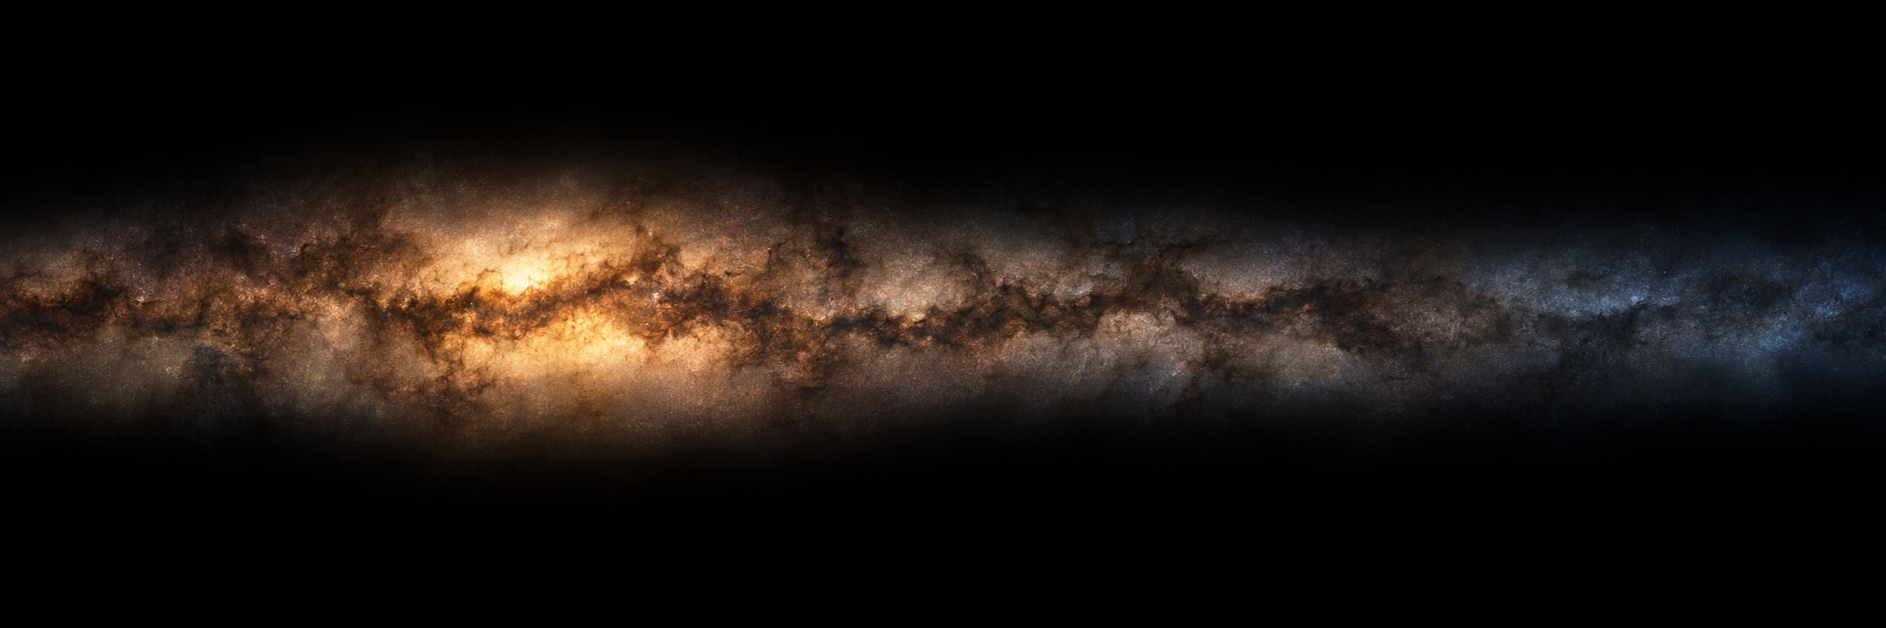
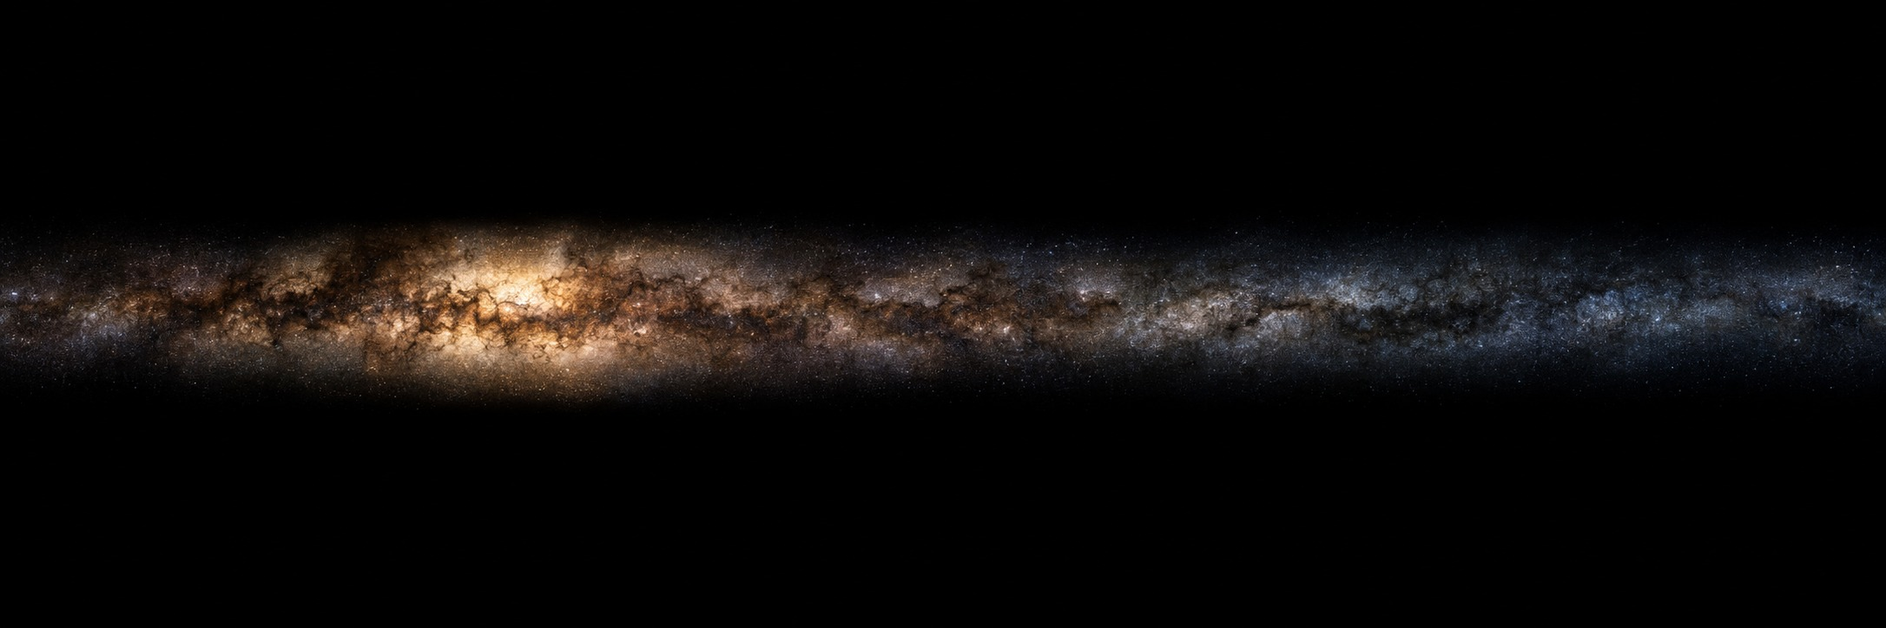
Reveal space: the band from a thinner take, laid across the corner; stars of unlike size and colour under a ceiling; a moon with softer plains and relief; a thin line, airglow and a first aurora by night; the catalogue laid faster

Changed region(s): [[0.0, 0.2431, 1.0, 0.7293]]

diff --git a/src/places/reveal/sky/space.ts b/src/places/reveal/sky/space.ts
@@ -5,17 +5,18 @@
 import * as THREE from 'three';
 import { FILM_ASPECT, HALF_TAN, KM, LIMB, LIMB_FOLLOW, RISE_LAST, X, Z, driftAt, poseAt } from '../shared/anchors';
 import type { Context } from '../shared/context';
-import { RIG_GLSL, RIG_UNIFORMS_GLSL } from '../shared/glsl';
+import { NOISE_GLSL, RIG_GLSL, RIG_UNIFORMS_GLSL } from '../shared/glsl';
 import { BAND_CELLS } from './space-band';
 
 /** How rich the field is: 1 is the film's. The count of stars goes with it, and their brightness a little. */
 const RICH: number = 1;
 /** Stars to a square half height of sky away from the band, at RICH 1. */
 const FIELD = 9000;
-/** The band of the galaxy: a point on its middle line, the way it runs, and how many more stars stand in its core than in the field. */
-const BAND = { x: -1.55, y: -0.8, alongX: 0.96, alongY: 0.28, more: 5 };
-/** Its picture (sky/space-band.jpg, 1520 x 480): where the picture begins along the band, how long and how wide it lies, half heights. */
-const BAND_LIES = { from: -0.44, long: 1.9, wide: 0.6, texels: 800 };
+/** The band of the galaxy: a point on its middle line, the way it runs, and how many more stars stand in its core than in the field.
+ * It rises from behind the planet's edge and crosses the corner of the last frames from the left side of the picture to the top. */
+const BAND = { x: -1.0, y: -0.93, alongX: 0.834, alongY: -0.551, more: 8 };
+/** Its picture (sky/space-band.jpg, 1216 x 320): where the picture begins along the band, how long and how wide it lies, half heights. */
+const BAND_LIES = { from: -1.08, long: 1.92, wide: 0.5, texels: 640 };
 /** The moon: where it stands in the sky, and how wide it is in pixels of a picture 3840 wide. */
 const MOON = { x: -1.38, y: -0.93 };
 const MOON_WIDE: number = 96;
@@ -26,9 +27,17 @@ const CLUSTERS: [number, number, number, number][] = [
 ];
 /** The faintest star drawn and the brightest, as the peak radiance of its point at 3840 wide. */
 const FAINTEST = 0.0035;
-const BRIGHTEST = 7;
+const BRIGHTEST = 6;
 /** Stars to a square half height of sky that stand out alone, at RICH 1. */
-const BRIGHT = 40;
+const BRIGHT = 100;
+/** Five set by hand in the corner the day shows, so that the small wedge of sky reads as sky at once: where, and how bright. */
+const FIRST: [number, number, number][] = [
+  [-1.72, -0.87, 5],
+  [-1.56, -0.775, 3.2],
+  [-1.22, -0.955, 6],
+  [-1.06, -0.99, 2.6],
+  [-1.47, -0.985, 2.2],
+];
 
 /** A number from 0 to 1 that depends only on the index and the channel. */
 function hash(i: number, channel: number): number {
@@ -95,8 +104,12 @@ void main() {
   float sigma = max(aTint.a * scale, 0.62);
   float peak = position.z * (aTint.a * scale / sigma) * (aTint.a * scale / sigma);
   // (The camera is closed down for the day; as the light goes it opens, and the faint stars come out. They go out with the picture.)
-  float open = uDusk > 0.0 ? pow(uGain, 0.42) * mix(0.3, 1.0, uEmber.w) : 1.0;
-  vStar = tint * peak * open * seen * (1.0 - uSolo);
+  float open = uDusk > 0.0 ? pow(uGain, 0.36) * mix(0.3, 1.0, uEmber.w) : 1.0;
+  // (However far the camera opens, a bright star stays a point: its light is held under a ceiling, so it never swells to a disc.)
+  // (The wider a point is drawn the lower its ceiling: the wide ones are soft and coloured, the tight ones hard and white.)
+  float ceiling = 2.2 / (aTint.a * aTint.a);
+  float held = ceiling * (1.0 - exp(-peak * open / ceiling));
+  vStar = tint * held * seen * (1.0 - uSolo);
   gl_PointSize = ceil(6.0 * sigma) + 1.0;
   vShape = vec2(gl_PointSize, 0.5 / (sigma * sigma));
   gl_Position = seen > 0.0 ? projectionMatrix * viewMatrix * vec4(xz.x, 12.0, xz.y, 1.0) : vec4(2.0, 2.0, 2.0, 1.0);
@@ -113,12 +126,12 @@ void main() {
 /** The colour of a star by its heat, from orange through white to blue white, and a share of how much of that colour it keeps. */
 function tintOf(heat: number, keep: number): [number, number, number] {
   const stops: [number, number, number][] = [
-    [1.0, 0.62, 0.36],
-    [1.0, 0.84, 0.66],
-    [1.0, 0.97, 0.92],
-    [0.88, 0.93, 1.0],
-    [0.76, 0.85, 1.0],
-    [0.64, 0.76, 1.0],
+    [1.0, 0.52, 0.24],
+    [1.0, 0.76, 0.5],
+    [1.0, 0.95, 0.86],
+    [0.86, 0.92, 1.0],
+    [0.68, 0.8, 1.0],
+    [0.52, 0.68, 1.0],
   ];
   const at = Math.min(heat * (stops.length - 1), stops.length - 1.001);
   const a = stops[Math.floor(at)] as [number, number, number];
@@ -140,24 +153,43 @@ export function createSpace(ctx: Context, space: THREE.Mesh): { geometry: THREE.
     }
     return false;
   };
+  // (A coarse map of the sky the film ever sees, one cell wider all round: most of the square of sky is never seen, and is passed over
+  // at once. Without it the catalogue took a third of a second to lay.)
+  const CELLS = 128;
+  const SIDE = 4.3;
+  const centre = new Uint8Array(CELLS * CELLS);
+  for (let j = 0; j < CELLS; j++) for (let i = 0; i < CELLS; i++) centre[j * CELLS + i] = everSeen(((i + 0.5) / CELLS - 0.5) * SIDE, ((j + 0.5) / CELLS - 0.5) * SIDE) ? 1 : 0;
+  const near = new Uint8Array(CELLS * CELLS);
+  for (let j = 0; j < CELLS; j++)
+    for (let i = 0; i < CELLS; i++) {
+      let any = 0;
+      for (let dj = -1; dj <= 1 && !any; dj++) for (let di = -1; di <= 1 && !any; di++) if (i + di >= 0 && i + di < CELLS && j + dj >= 0 && j + dj < CELLS && centre[(j + dj) * CELLS + i + di]) any = 1;
+      near[j * CELLS + i] = any;
+    }
+  const maybeSeen = (x: number, y: number): boolean => {
+    const i = Math.floor((x / SIDE + 0.5) * CELLS);
+    const j = Math.floor((y / SIDE + 0.5) * CELLS);
+    return i >= 0 && j >= 0 && i < CELLS && j < CELLS && near[j * CELLS + i] === 1;
+  };
   const place: number[] = [];
   const tint: number[] = [];
   const put = (x: number, y: number, i: number, peak: number): void => {
-    if (!everSeen(x, y)) return;
+    if (!maybeSeen(x, y) || !everSeen(x, y)) return;
     // (Only the bright ones are a little wider, as a lens draws them, and they keep more of their colour.)
-    const wide = 0.62 + 0.4 * Math.min(1, Math.max(0, Math.log10(peak / 0.5)));
-    const [r, g, b] = tintOf(Math.pow(hash(i, 4), 0.8), 0.45 + 0.55 * Math.min(1, peak / 0.3));
-    place.push(x, y, peak * (0.7 + 0.3 * RICH));
+    // (Of unlike sizes too: some of the bright ones stay tight and hard, others are drawn softer and wider, and those keep their colour.)
+    const wide = 0.62 + (0.12 + 0.52 * hash(i, 6)) * Math.min(1, Math.max(0, Math.log10(peak / 0.25)));
+    const [r, g, b] = tintOf(Math.pow(hash(i, 4), 0.8), 0.55 + 0.45 * Math.min(1, peak / 0.3));
+    place.push(x, y, peak * (0.9 + 0.4 * RICH));
     tint.push(r, g, b, wide);
   };
   // Many faint and few bright: the count of stars brighter than a given brightness falls as one over that brightness.
   const add = (x: number, y: number, i: number, dim: number): void => put(x, y, i, Math.min(FAINTEST / (1 - hash(i, 3)), 1.2) * dim);
-  const SIDE = 4.3;
   const most = 1 + BAND.more;
   const tries = Math.round(FIELD * RICH * SIDE * SIDE * most);
   for (let i = 0; i < tries; i++) {
     const x = (hash(i, 0) - 0.5) * SIDE;
     const y = (hash(i, 1) - 0.5) * SIDE;
+    if (!maybeSeen(x, y)) continue;
     const band = bandAt(x, y);
     if (hash(i, 2) * most > 1 + BAND.more * band) continue;
     // (The crowd of the band is the far, faint crowd: what it adds is mostly dim.)
@@ -172,7 +204,8 @@ export function createSpace(ctx: Context, space: THREE.Mesh): { geometry: THREE.
     }
   }
   // And a few that the eye finds first, alone in the field: they are what is left of the sky on a small screen.
-  for (let k = 0; k < Math.round(BRIGHT * Math.sqrt(RICH) * SIDE * SIDE); k++, n++) put((hash(n, 0) - 0.5) * SIDE, (hash(n, 1) - 0.5) * SIDE, n, 1.2 * Math.pow(BRIGHTEST / 1.2, hash(n, 3)));
+  for (let k = 0; k < Math.round(BRIGHT * Math.sqrt(RICH) * SIDE * SIDE); k++, n++) put((hash(n, 0) - 0.5) * SIDE, (hash(n, 1) - 0.5) * SIDE, n, 0.8 * Math.pow(BRIGHTEST / 0.8, hash(n, 3)));
+  for (const [x, y, peak] of FIRST) put(x, y, n++, peak);
   const geometry = new THREE.BufferGeometry();
   geometry.setAttribute('position', new THREE.Float32BufferAttribute(place, 3));
   geometry.setAttribute('aTint', new THREE.Float32BufferAttribute(tint, 4));
@@ -279,9 +312,10 @@ void main() {
   vec3 sun = normalize(vec3(uSunDir.x, uSunDir.z, uSunDir.y));
   vec2 slope = (face.gb - 0.5) * 4.4;
   vec3 ground = normalize(ball - vec3(slope, 0.0) * pz * 1.5);
-  float lit = max(dot(ground, sun), 0.0);
-  // (Dust throws the light back much the same from every slant: the disc does not darken to its rim as a smooth ball would.)
-  float shade = mix(lit, 2.0 * lit / (lit + max(pz, 0.08)), 0.6) * smoothstep(-0.03, 0.1, dot(ball, sun));
+  float lit = max(dot(ball, sun), 0.0);
+  // (Dust throws the light back much the same from every slant: the disc does not darken to its rim as a smooth ball would. The
+  // relief is laid over that: a slope turned to the sun is lighter than the level ground beside it, one turned away darker.)
+  float shade = max(mix(lit, 2.0 * lit / (lit + max(pz, 0.08)), 0.6) + 1.25 * (max(dot(ground, sun), 0.0) - lit), 0.0) * smoothstep(-0.03, 0.1, dot(ball, sun));
   // (The camera opens as the light goes, and the lit part of the moon brightens with it, held short of white. It goes out with the picture.)
   float open = uDusk > 0.0 ? pow(uGain, 0.3) * uEmber.w : 1.0;
   vec3 colour = vec3(1.0, 0.97, 0.92) * face.r * shade * 0.42 * open;
@@ -295,6 +329,7 @@ void main() {
 // the line is one clean line at any size, only fainter where the picture is too small to hold it.
 const EDGE_GLSL = /* glsl */ `
 ${RIG_GLSL}
+${NOISE_GLSL}
 varying vec3 vWorld;
 // The mean, over a width w about x, of a layer that is nothing below 0 and exp(-x / deep) above it.
 float layerOver(float x, float deep, float w) {
@@ -306,6 +341,10 @@ float layerOver(float x, float deep, float w) {
 }
 // The dense air seen edge on, by day: a deep clear blue, never white.
 const vec3 LINE = vec3(0.035, 0.27, 1.0);
+// How bright the aurora stands, before the camera's exposure: an edge, not a show.
+const float AURORA = 0.003;
+// The thin line the dense air still shows against the black by night, before the camera's exposure.
+const vec3 NIGHT_LINE = vec3(0.1, 0.32, 1.0) * 0.0042;
 `;
 
 /** The black beyond the edge, and the last of the air against it. */
@@ -338,14 +377,31 @@ void main() {
     vec3 layers = mix(mix(vec3(0.85, 0.13, 0.03), vec3(1.0, 0.46, 0.12), smoothstep(1.0, 12.0, km)), mix(vec3(0.8, 0.78, 0.7), vec3(0.2, 0.4, 0.95), smoothstep(22.0, 62.0, km)), smoothstep(9.0, 30.0, km));
     vec3 arc = mix(glow, layers * exp(-max(km, 0.0) / 34.0) * 0.5 * a, lowSun) * mix(1.0, sunSeen(sunH - 0.05) + 0.03 * skySeen(sunH), uTerm.w);
     float airglow = exp(-pow((km - 16.0) / 20.0, 2.0));
-    colour = exposed(arc * uEmber.w * pow(uGain, -0.88) + vec3(0.2, 0.36, 0.8) * 0.0011 * airglow * uDusk * a);
+    // (And over it, as it is seen from orbit by night: a thin green line where the oxygen glows near 95 km, and a far fainter red
+    // well above it. Neither is narrower than a pixel of this picture.)
+    float lineWide = max(8.0, w);
+    vec3 high = vec3(0.3, 0.95, 0.4) * 0.0011 * (8.0 / lineWide) * exp(-pow((km - 95.0) / lineWide, 2.0)) + vec3(0.9, 0.14, 0.07) * 0.00028 * exp(-pow((km - 230.0) / max(70.0, w), 2.0));
+    // An aurora, low over the dark edge and seen edge on: a curtain whose foot stands near 100 km and whose rays thin upward, green
+    // below and red at the top. It stands only where the night is deep, it comes with the dark, and its folds and rays travel
+    // slowly along the edge: all of it from the time alone.
+    vec2 away = vWorld.xz - uLimb.xy;
+    float along = atan(away.y, away.x) * uLimb.z / 100.0;
+    float fold = vnoise(vec2(along * 0.8 - uTime * 0.06, 3.0 + uTime * 0.03));
+    float rays = 0.7 + 0.3 * vnoise(vec2(along * 8.0 - uTime * 0.4, 11.0));
+    // (Rays finer than the picture can hold are drawn as their mean.)
+    rays = mix(0.85, rays, 1.0 - smoothstep(4.0, 11.0, w));
+    float over = km - 100.0 - 34.0 * (vnoise(vec2(along * 0.3 + uTime * 0.04, 7.0)) - 0.5);
+    float curtain = smoothstep(-5.0 - w, 5.0 + w, over) * exp(-max(over, 0.0) / mix(45.0, 95.0, rays)) * rays * smoothstep(0.38, 0.7, fold);
+    float deep = (1.0 - smoothstep(-0.34, -0.12, sunH)) * smoothstep(0.45, 1.0, uDusk);
+    high += mix(vec3(0.2, 1.0, 0.45), vec3(0.8, 0.12, 0.3), smoothstep(30.0, 150.0, over)) * AURORA * curtain * deep;
+    colour = exposed(arc * uEmber.w * pow(uGain, -0.88) + (vec3(0.2, 0.36, 0.8) * 0.0011 * airglow + (high + NIGHT_LINE * layerOver(km, 6.0, w)) * mix(0.35, 1.0, uEmber.w)) * uDusk * a);
   }
   // (By day the camera is closed down and the band is all but lost; as it opens the band comes up, and it goes out with the picture.
   // The air at the edge hides it as it hides the stars.)
-  float open = uDusk > 0.0 ? pow(uGain, 0.8) * mix(0.15, 1.0, uEmber.w) : 1.0;
+  float open = uDusk > 0.0 ? pow(uGain, 0.55) * mix(0.3, 1.0, uEmber.w) : 1.0;
   // (Its colour is held back: the far crowd is pale, warm only at its core.)
-  band = mix(vec3(dot(band, vec3(0.3, 0.5, 0.2))) * vec3(0.92, 0.97, 1.1), band, 0.55);
-  colour += band * 0.028 * open * smoothstep(16.0, 90.0, km);
+  band = mix(vec3(dot(band, vec3(0.3, 0.5, 0.2))) * vec3(0.82, 0.95, 1.22), band, 0.3);
+  colour += band * 0.021 * open * smoothstep(16.0, 90.0, km);
   gl_FragColor = vec4(colour * (1.0 - uSolo), a * (1.0 - uSolo));
 }`;
 

diff --git a/src/places/reveal/sky/space-band.ts b/src/places/reveal/sky/space-band.ts
@@ -1,34 +1,24 @@
 // How thick the far crowd of the galaxy stands, cell by cell of the picture sky/space-band.jpg: a is none, z the thickest.
 // Written by assets-src/reveal/space/make_space_band.py. Do not edit by hand.
 export const BAND_CELLS: readonly string[] = [
-  'aaaaaaaaaaaaaaaaaaaaaaaaaaaaaaaaaaaaaaaaaaaaaaaaaaaaaaaaaaaaaaaaaaaaaaaaaaaaaaaaaaaaaaaaaaaaaaa',
-  'aaaaaaaaaaaaaaaaaaaaaaaaaaaaaaaaaaaaaaaaaaaaaaaaaaaaaaaaaaaaaaaaaaaaaaaaaaaaaaaaaaaaaaaaaaaaaaa',
-  'aaaaaaaaaaaaaaaaaaaaaaaaaaaaaaaaaaaaaaaaaaaaaaaaaaaaaaaaaaaaaaaaaaaaaaaaaaaaaaaaaaaaaaaaaaaaaaa',
-  'aaaaaaaaaaaaaaaaaaaaaaaaaaaaaaaaaaaaaaaaaaaaaaaaaaaaaaaaaaaaaaaaaaaaaaaaaaaaaaaaaaaaaaaaaaaaaaa',
-  'aaaaaaaaaaaaaaaabbbbbbbbbbbbbbbbbbbbbbbbbbaaaaaaaaaaaaaaaaaaaaaaaaaaaaaaaaaaaaaaaaaaaaaaaaaaaaa',
-  'aaaaaaaaaabbbbbbbbbccccccccccccddcccccbbbbbbbbaaaaaaaaaaaaaaaaaaaaaaaaaaaaaaaaaaaaaaaaaaaaaaaaa',
-  'aaaaaaabbbbbcccccccdeeddddddeefgfeddccccccdcccbbbbbbbaaaaaaaaaaaaaaaaaaaaaaaaaaaaaaaaaaaaaaaaaa',
-  'aaaabbbbcccdddddddeffgffgfgggghhhgfedddeddeeddccbbbbbbbbbabbbbbbbbabbbaababbbbaaaaaaaaaaaaaaaaa',
-  'aabbbbccdddeeeeedefhhhhhhijjjklljhhgfhhgfffffeddccccdcccbccccccbbbbbbbbbbccccbbbbbbbaaaaaaaaaaa',
-  'aabbccddeeeefgfgeeikkkkklmnnpqromllkikjjihhhggfeedddeedddddddddddccccccdddddddccccbcbbbbbbbbbaa',
-  'aabcdddcdgffghhfffghkmooqrrqrtrqrrpolkkllkkjihhggeddfffffffffffffeedddddddddddddddddddccccccbba',
-  'aabcdeccceghfffefgghjmqsvvtsuuututrqmjilppmlkkgghfedfghhhhfffhihiigfeedddedddeeeffffeeeedddccba',
-  'abbdeffedfgfefgegikllosuuuvxyywussnmigkmqnnmlkgijifefhjlljigfgikkjighigfdeefhhhhhiihgfffeeddcba',
-  'abcegggihghfghfgilnnprruttwzzytrpliknknnkikljiiklkhgikmnmmljhgijijjkjiggeddegjjllkjigeeefedecba',
-  'abdfhfgikkjijihhghmknnqojppuspmmjhklkmkihfgjiiiklkjilnqpqqnmhhffgijkkfgeeefeehilljffdcddddefdba',
-  'abdfffighghjklpnifihffhhijmomijlnpnlmmkhgffhfegkmmmlljnqqlkjfgegfegffefffgigdeffeedefdccdfffeca',
-  'abcdefhgefggilonkfffffgjnjmlkkoruusollkhkkijgfhhjliffegimhgeeeeffeffeglmomkgeffeeffghfdddeffeda',
-  'abcefihhfghhjlonkghjgginnknnosstvuwuplmmpqolifggihghigegggefffgijjhhhjllnnlkjgggggiihgfedddeeca',
-  'abdfghihgfgijllljhilkhlosurrtuuuvwwwvpsutspljggfhhhhjighhigfhijkkkjikklkkklkkhghhjjkkkjfedddcba',
-  'abegfefgffhijkkjiijkllllqrsuutsttuutspqqspmihgihifffhijiihhhhjijjjiijijhghjkhedfghijjjjigffecba',
-  'abdeedeeeegijljighhjkljlmloqrqonopqpopppomljjjhjhffghhihhhggggfffgghhgffggiiffedeegihhhggfeedba',
-  'abccdddddefghiihggfhhhghiikklmllllllllmmmlkjjigfedeffffgggfffeeeeeeeeedeefffddddddeffeeeeeeecba',
-  'aabbcccccdeeffffggggffefghjiikjihiiiiijkkjiihgeeeeeeeedeeeddccccdddcccccdddccccccccccccccdddbba',
-  'aaabbcbbbbcccddddeeeeedeffhggggfffgghhgggggffeddddddddcccccbbbbbbbbbbbbbbbbbbbbbbbbbbbbbbbbbbaa',
-  'aaaabbbaaabbbbbcccccddddeeeeeeeeeeeeffedddddddcccccccbbbbbbaaabbbaaaaaaaaaaaaaaaaaaaaaaabbbaaaa',
-  'aaaaaaaaaaaaaabbbbbbbcccdccccccccccddccccccccbbbbbbbbaaaaaaaaaaaaaaaaaaaaaaaaaaaaaaaaaaaaaaaaaa',
-  'aaaaaaaaaaaaaaaaaaaabbbbbbbbbbbbbbbbbbbbaabbbbaaaaaaaaaaaaaaaaaaaaaaaaaaaaaaaaaaaaaaaaaaaaaaaaa',
-  'aaaaaaaaaaaaaaaaaaaaaaaaaaaaaaaaaaaaaaaaaaaaaaaaaaaaaaaaaaaaaaaaaaaaaaaaaaaaaaaaaaaaaaaaaaaaaaa',
-  'aaaaaaaaaaaaaaaaaaaaaaaaaaaaaaaaaaaaaaaaaaaaaaaaaaaaaaaaaaaaaaaaaaaaaaaaaaaaaaaaaaaaaaaaaaaaaaa',
-  'aaaaaaaaaaaaaaaaaaaaaaaaaaaaaaaaaaaaaaaaaaaaaaaaaaaaaaaaaaaaaaaaaaaaaaaaaaaaaaaaaaaaaaaaaaaaaaa',
+  'aaaaaaaaaaaaaaaaaaaaaaaaaaaaaaaaaaaaaaaaaaaaaaaaaaaaaaaaaaaaaaaaaaaaaaaaaaaa',
+  'aaaaaaaaaaaaaaaaaaaaaaaaaaaaaaaaaaaaaaaaaaaaaaaaaaaaaaaaaaaaaaaaaaaaaaaaaaaa',
+  'aaaaaaaaaaaaaaaaaaaaaaaaaaaaaaaaaaaaaaaaaaaaaaaaaaaaaaaaaaaaaaaaaaaaaaaaaaaa',
+  'aaaaaaaaaaaaaaaaaaaaaabbbaaaaaaaaaaaaaaaaaaaaaaaaaaaaaaaaaaaaaaaaaaaaaaaaaaa',
+  'aaaaabbbbbbbcbcdeeeedeeffddcccccccccbbbbbbbbaaaaaaaabbaaaaaaaaaaaaaaaaaaaaaa',
+  'aabcddedcbbbceegjijiiijmgffgihghgfffeedcccccccbbbccccccccccccccbbbbbbbbbccba',
+  'abcehhgddcbdegijmmpoooqrkiiknklkkkjhggeeeedcddddeeefeeddedddeeeddcccdddcccba',
+  'abdfiiidccdfgimptvwvvwusnliiihkijlkkliiggfdddeffgiiihddeffefgihheeddeefeffca',
+  'aadhhieccdffikomtqsyzzuusnligghjihmoljijfghdfikkkkihffeffeefhljkgffggfgghhdb',
+  'abcdccdddghihhkjkluvvwxtpiigjkjjheilnlkihjggehihhhjfhedeffeefgffhhhiimmmihca',
+  'accdddeehikmokholmnmplnljiihkijffefggeffghhljffgfdeehgghfeffeeghjkjmmokkhfeb',
+  'acedhggknllqpkkrrspkknollmnonplhgfeefedeffhlmihffeeefihlhfghhhijjkkillhffhfb',
+  'aceehiijjhhjjjosuwspmrtsqssplkkjihggggfefghiijkjhhfedeffgdeeffgfghiffegghhdb',
+  'abddeggghghggimnppqonppsrqpnkjiiihgegfedefffegghggfddcdddddccddddddcccdeeeca',
+  'aabccddddefeeghiiijjjjjklkjhhhgfefedddddddddcddddccbbbbbbbbbbbbbbbbbbbcccbba',
+  'aaaaabbbbbcbccddeeeeffffggfeeedcccbbbbbbbbbbabbaaaaaaaaaaaaaaaaaaaaaaaaaaaaa',
+  'aaaaaaaaaaaaaaabbbbbbbbbccbbbbaaaaaaaaaaaaaaaaaaaaaaaaaaaaaaaaaaaaaaaaaaaaaa',
+  'aaaaaaaaaaaaaaaaaaaaaaaaaaaaaaaaaaaaaaaaaaaaaaaaaaaaaaaaaaaaaaaaaaaaaaaaaaaa',
+  'aaaaaaaaaaaaaaaaaaaaaaaaaaaaaaaaaaaaaaaaaaaaaaaaaaaaaaaaaaaaaaaaaaaaaaaaaaaa',
+  'aaaaaaaaaaaaaaaaaaaaaaaaaaaaaaaaaaaaaaaaaaaaaaaaaaaaaaaaaaaaaaaaaaaaaaaaaaaa',
 ];

diff --git a/assets-src/reveal/space/make_space_band.py b/assets-src/reveal/space/make_space_band.py
@@ -12,8 +12,8 @@ from PIL import Image
 from scipy.ndimage import gaussian_filter, median_filter
 
 src = np.asarray(Image.open('assets-src/reveal/space/space-band-source.jpg').convert('RGB')).astype(np.float64) / 255
-# The stretch of it the film sees: 1520 x 480 px about the middle line of the band, the warm core near a third of the way along.
-X0, Y0, W, H = 150, 106, 1520, 480
+# The stretch of it the film sees: 1216 x 320 px about the middle line of the band, the warm core near a third of the way along.
+X0, Y0, W, H = 265, 198, 1216, 320
 part = src[Y0:Y0 + H, X0:X0 + W]
 # The stars out: a median takes the points and keeps the edges of the lanes.
 part = np.stack([median_filter(part[..., c], size=5) for c in range(3)], axis=-1)
@@ -29,8 +29,8 @@ window = ease((1 - np.abs(ys)) / 0.3) * ease(xs / 0.06) * ease((1 - xs) / 0.04)
 part = part * window[..., None]
 Image.fromarray((part * 255 + 0.5).astype(np.uint8)).save('public/assets/reveal/sky/space-band.jpg', quality=88)
 
-# The table: 95 x 30 cells, a letter each, a for none and z for the thickest.
-GW, GH = 95, 30
+# The table: 76 x 20 cells, a letter each, a for none and z for the thickest.
+GW, GH = 76, 20
 lum = part @ np.array([0.3, 0.5, 0.2])
 cells = lum.reshape(GH, H // GH, GW, W // GW).mean(axis=(1, 3))
 cells = cells / cells.max()

diff --git a/assets-src/reveal/space/make_space_moon.py b/assets-src/reveal/space/make_space_moon.py
@@ -35,7 +35,7 @@ light = np.zeros((N, N))
 # The dark plains: where slow noise runs high. (Kept off the middle of the disc and broken up, so that no two of them and a
 # third read as a face.)
 plains = slow(46, 7) + 0.5 * slow(19, 8) + 0.3 * slow(7, 9) + 0.14 * slow(2.5, 10) + 0.55 * (-0.8 * px + 0.6 * py)
-mare = np.clip((plains - 0.5) / 0.1, 0, 1)
+mare = np.clip((plains - 0.42) / 0.26, 0, 1)
 mare = mare * mare * (3 - 2 * mare)
 
 # Craters: the count of those wider than r falls as r to the power -2.
@@ -106,7 +106,7 @@ rough = 0.0035 * slow(2.2, 11) + 0.006 * slow(6, 12)
 height = height * (1 - 0.6 * mare) + rough * (1 - 0.7 * mare) - 0.01 * mare
 height = gaussian_filter(height, 0.6)
 tone = 0.62 + 0.1 * slow(14, 13) + 0.05 * slow(3, 14)
-albedo = np.clip(tone * (1 - 0.36 * mare) + light * (1 - 0.3 * mare), 0, 1)
+albedo = np.clip(tone * (1 - 0.3 * mare) + light * (1 - 0.3 * mare), 0, 1)
 
 gy, gx = np.gradient(height * R)
 SLOPE = 2.2  # the slope that reads 0 or 1

diff --git a/assets-src/reveal/space/RECIPE.md b/assets-src/reveal/space/RECIPE.md
@@ -15,7 +15,7 @@ python3 assets-src/reveal/space/make_space_band.py
 - Made by: `make_space_moon.py`, in the build's own machine. Nothing painted, nothing copied from a picture, no model.
 - From: nothing but the seed in the script (30).
 - Command: `python3 assets-src/reveal/space/make_space_moon.py`
-- Takes: one (the script is its own recipe; the seed and the law of the plains were set so that the dark plains read as no face).
+- Takes: one seed; the law of the plains was softened once (their edges wider, their tone nearer the uplands) after the first version, where they read as blots. The script is its own recipe; the seed and the law of the plains were set so that the dark plains read as no face.
 - What it is: 512 x 512, the face of a small moon seen straight on. Red is how light the ground is (uplands, dark plains, the light dust
   of young craters and three with rays). Green and blue are the slope of the ground to the right and down the picture, 0.5 level, from
   craters laid by the law that the count wider than r falls as r to the power -2, the older ones worn.
@@ -24,17 +24,20 @@ python3 assets-src/reveal/space/make_space_band.py
 
 ## `public/assets/reveal/sky/space-band.jpg`
 
-- Made by: Perplexity Computer's image generation (`generate_image`, the default model of the day), then `make_space_band.py`.
-- From: `assets-src/reveal/space/space-band-source.jpg` (take 1 as it came, 2172 x 724, saved as JPEG at quality 92).
-- Prompt: the words of takes 1 and 2 were not kept (the builder's notes were shortened before they were written down here). In substance:
-  a photograph of the band of the Milky Way from space, level across the middle of a black frame, with a grain of far stars, dark dust
-  lanes along its middle and a warm core left of the middle, no bright stars in front, no planet, no text. This picture is to be
-  replaced at the next version by take 3, whose prompt is kept word for word.
-- Command: `python3 assets-src/reveal/space/make_space_band.py` (cuts the stretch the film sees, 1520 x 480; takes the picture's own stars out with
+- Made by: Perplexity Computer's image generation (`generate_image`, the default model of the day, aspect ratio 16:9), then `make_space_band.py`.
+- From: `assets-src/reveal/space/space-band-source.jpg` (take 3 as it came, 2172 x 724, saved as JPEG at quality 92).
+- Prompt, word for word: "Astrophotography panorama of the Milky Way galactic band seen from space, a wide panoramic strip running
+  perfectly horizontal across the middle of a pure black frame. Dense unresolved star clouds with fine grain, intricate dark dust
+  lanes and rifts threading along the middle of the band, a warm golden core region left of centre fading to cooler blue-white
+  toward the right. The band is thin: the top third and the bottom third of the frame are pure black empty space. Deep exposure,
+  natural muted colour, photographic, no bright foreground stars, no pink nebulae, no lens flare, no planets, no text, no
+  watermark, no border."
+- Command: `python3 assets-src/reveal/space/make_space_band.py` (cuts the stretch the film sees, 1216 x 320; takes the picture's own stars out with
   a median of 5 px, since a soft picture of a star is a blob and the place draws its stars as points over the band; takes the floor off so
   black is black; fades it to nothing before its own edges; and writes the table `src/places/reveal/sky/space-band.ts`, by which the
   place sets more of its faint stars where the band is bright).
-- Takes: 3 asked, take 1 used here. Take 2 has a round bulge and pink clouds, which read as a painting.
-- Why this one: its dust lanes hold when the picture lies 1.35 px of a 3840 frame to the texel, and its warm core sits where the band
-  rises from behind the planet's edge.
+- Takes: 3 asked, take 3 used. Take 1 (used in the first version; its words were not kept) lay too wide and too tan and read as a
+  cloud by night. Take 2 has a round bulge and pink clouds, which read as a painting.
+- Why this one: the band is thin, its colour is muted, and its dust lanes are fine enough to read as lanes and not as a cloud when
+  the picture lies 1.7 px of a 3840 frame to the texel behind the points of the stars.
 - Date: 28 November 2026.

diff --git a/assets-src/reveal/ROWS-reveal_space_builder_n30.md b/assets-src/reveal/ROWS-reveal_space_builder_n30.md
@@ -3,5 +3,5 @@
 | file | what | tool or model | prompt | take | date |
 | --- | --- | --- | --- | --- | --- |
 | public/assets/reveal/sky/space-moon.png | The face of the small moon over the planet's edge, 512 x 512: red how light the ground is, green and blue its slope to the right and down. The place lights it from the scene's sun. | `assets-src/reveal/space/make_space_moon.py` (numpy, scipy, Pillow; seed 30; no model, no picture) | none | 1 | 28 November 2026 |
-| public/assets/reveal/sky/space-band.jpg | The glow and the dust lanes of the band of the galaxy behind the stars, 1520 x 480, its own stars taken out. | Perplexity Computer image generation (`generate_image`, default model), then `assets-src/reveal/space/make_space_band.py` | Not kept word for word for this take (see `assets-src/reveal/space/RECIPE.md`): the band of the Milky Way from space, level across a black frame, far stars as grain, dark dust lanes, a warm core left of the middle, no bright stars, no planet, no text. | 1 of 3 | 28 November 2026 |
-| src/places/reveal/sky/space-band.ts | The table of how thick the band stands, 95 x 30 letters, by which the stars are set thicker in the band. | `assets-src/reveal/space/make_space_band.py`, from the picture above | none | 1 | 28 November 2026 |
+| public/assets/reveal/sky/space-band.jpg | The glow and the dust lanes of the band of the galaxy behind the stars, 1216 x 320, its own stars taken out. | Perplexity Computer image generation (`generate_image`, default model, aspect ratio 16:9), then `assets-src/reveal/space/make_space_band.py` | Astrophotography panorama of the Milky Way galactic band seen from space, a wide panoramic strip running perfectly horizontal across the middle of a pure black frame. Dense unresolved star clouds with fine grain, intricate dark dust lanes and rifts threading along the middle of the band, a warm golden core region left of centre fading to cooler blue-white toward the right. The band is thin: the top third and the bottom third of the frame are pure black empty space. Deep exposure, natural muted colour, photographic, no bright foreground stars, no pink nebulae, no lens flare, no planets, no text, no watermark, no border. | 3 of 3 | 28 November 2026 |
+| src/places/reveal/sky/space-band.ts | The table of how thick the band stands, 76 x 20 letters, by which the stars are set thicker in the band. | `assets-src/reveal/space/make_space_band.py`, from the picture above | none | 1 | 28 November 2026 |
